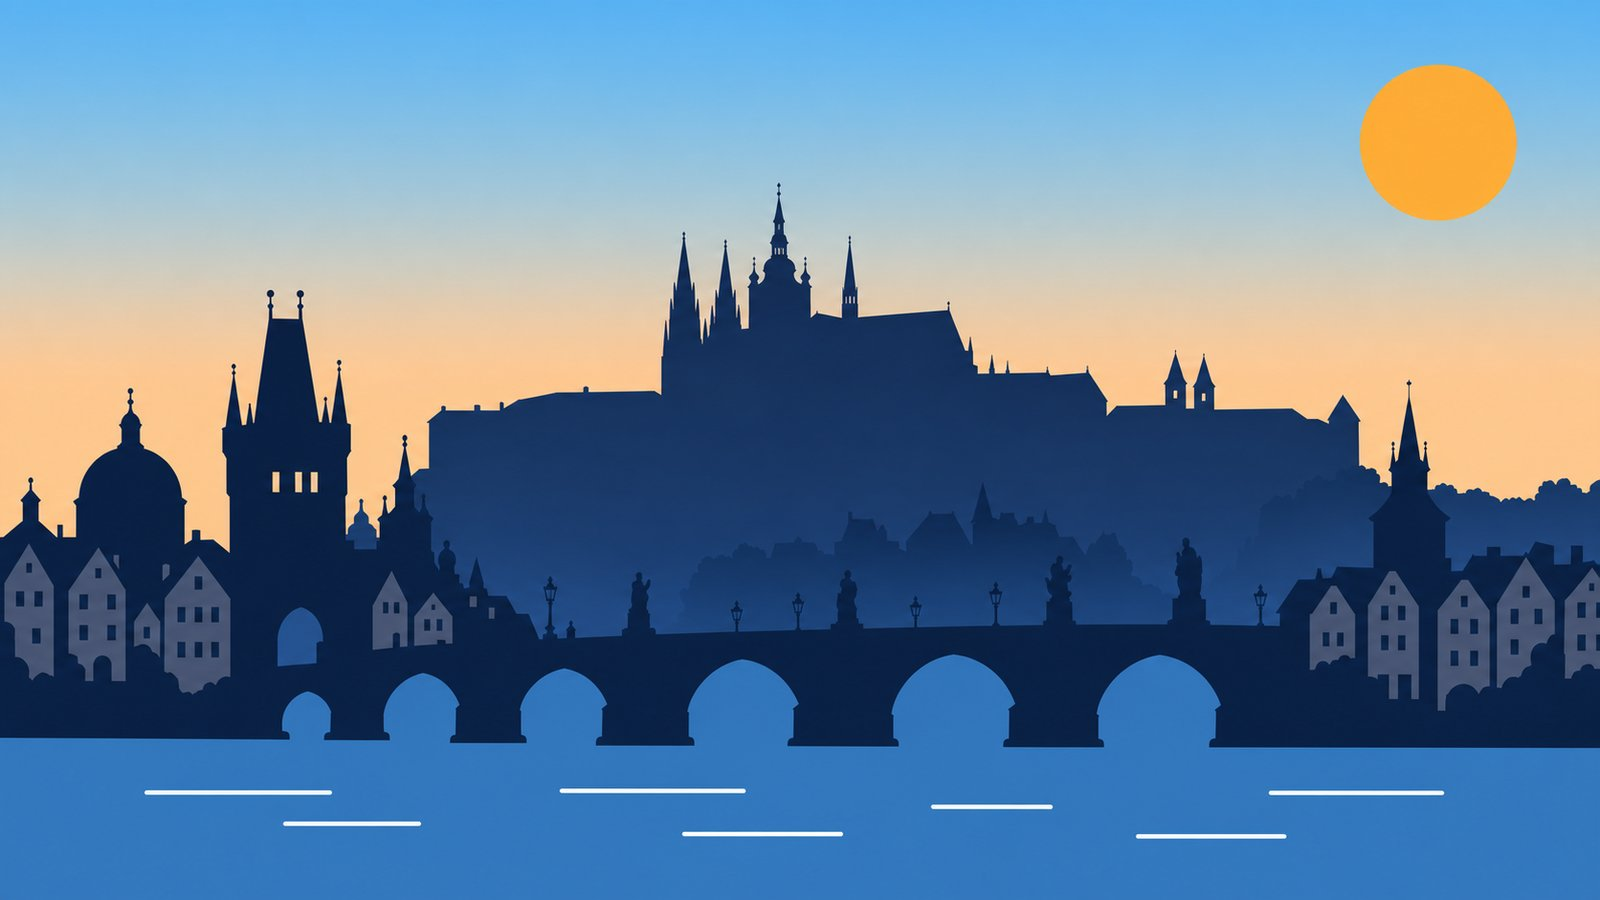
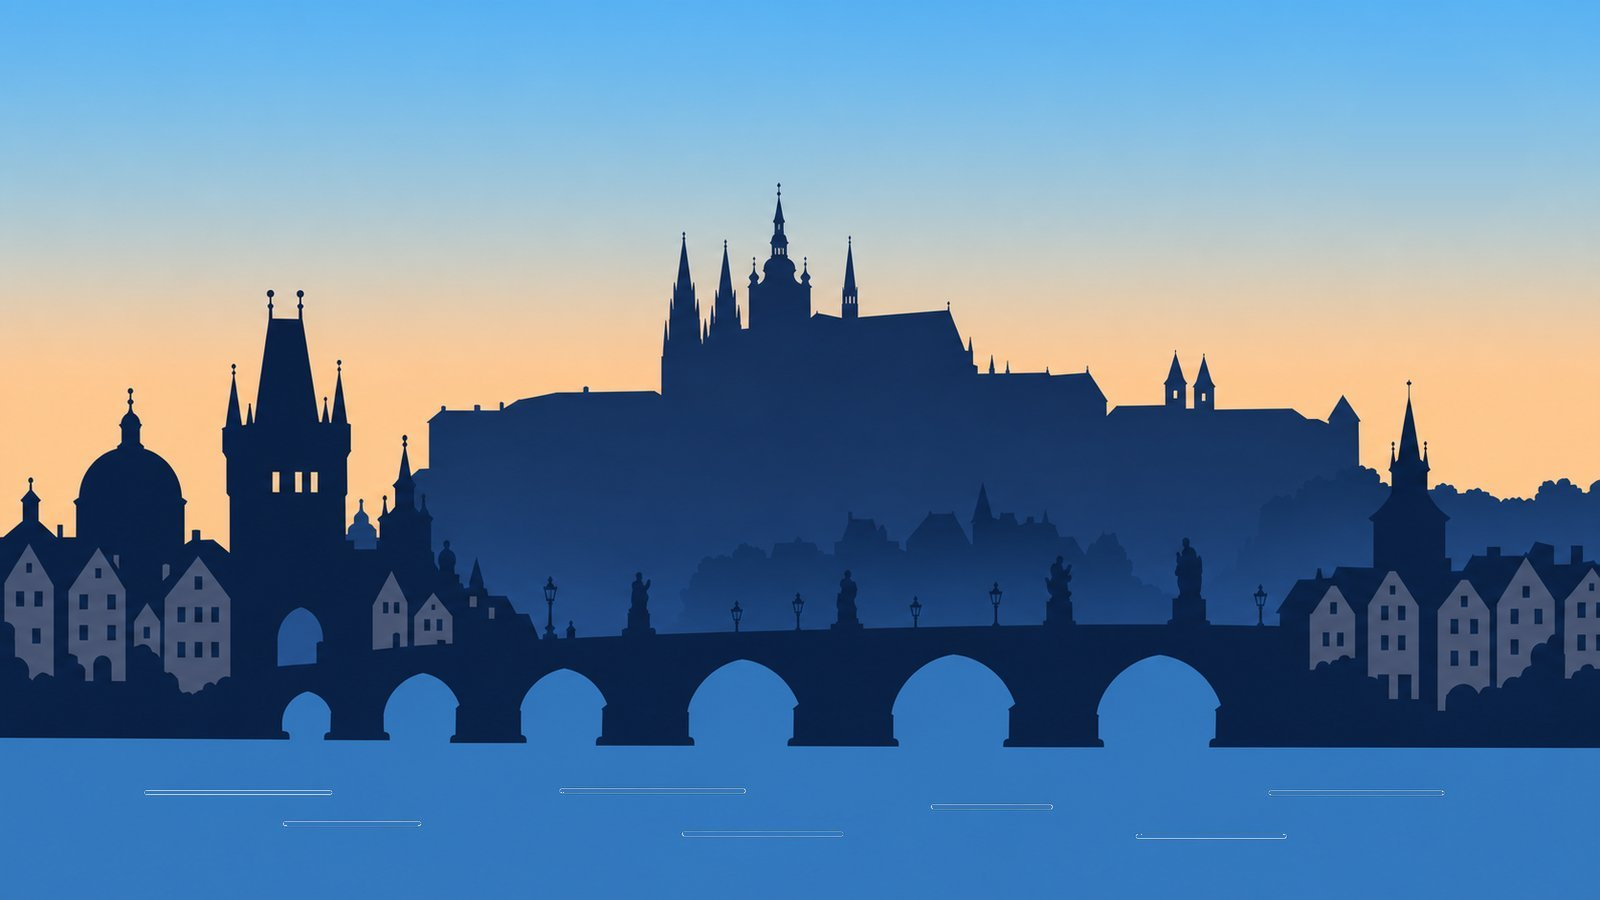
Prague: single-image with day/night tint (same as London)
- Add prague to _MN_SINGLE_IMAGE so it uses only prague.jpg + procedural sun/moon/window flicker instead of swapping to prague_night.jpg
- Erase baked-in static sun from prague.jpg + clean white water foam streaks
- Add _MN_HORIZON_FRAC map (london 0.66 / prague 0.83) so sun/moon arc lands at the correct waterline for each city
- Make sun/moon arc + silhouette mask + water shimmer + window flicker generic across single-image cities
- Keep Tower Bridge traffic and Thames ferries gated to London only

diff --git a/game/index.html b/game/index.html
@@ -9985,7 +9985,15 @@ function _mnDrawSkylinePlaceholder(ctx, W, H, baseY, season, night) {
 // having two distinct day/night JPEGs with different compositions produces
 // ghosting (two skylines visible at once during transition) since each image
 // has its own building/sun/moon positions. Single-image cities sidestep this.
-const _MN_SINGLE_IMAGE = { london: true };
+const _MN_SINGLE_IMAGE = { london: true, prague: true };
+
+// Per-city horizon/water-line as a fraction of canvas height. Used by the
+// procedural sun/moon arc so celestial bodies rise from / set into the right
+// place (the water surface, not the middle of the sky). Defaults to 0.66.
+const _MN_HORIZON_FRAC = {
+  london: 0.66,
+  prague: 0.83,
+};
 
 // Returns true if it drew the image, false if the image is not ready yet.
 function _mnDrawSkylineImage(ctx, W, H, baseY, id, dayMix, night, season) {
@@ -10126,7 +10134,10 @@ function _mnSeasonTint(season, night) {
 // drifting on the Thames, animated traffic dots on Tower Bridge, and gentle
 // window-light flicker at night. Generic for other cities = no-op.
 function _mnDrawLondonAnimation(ctx, W, H, baseY, id, night, tnow) {
-  if (id !== 'london') return;
+  // Animation runs for any single-image city. London-specific extras
+  // (Tower Bridge traffic, Thames ferries) are gated below.
+  if (!_MN_SINGLE_IMAGE[id]) return;
+  const horizonFrac = _MN_HORIZON_FRAC[id] || 0.66;
 
   // ── Animated SUN ↔ MOON arc ─────────────────────────────────────────────────
   // London uses a single base JPEG — it cannot show a moving sun/moon on its
@@ -10145,7 +10156,7 @@ function _mnDrawLondonAnimation(ctx, W, H, baseY, id, night, tnow) {
       const sx = (t - 0.22) / 0.56;             // 0..1 across sky
       const ax = Math.PI * sx;                  // 0..π (left → right semicircle)
       const cx = W * (0.10 + 0.80 * sx);        // x sweeps L→R
-      const horizon = H * 0.66;                 // river/water line
+      const horizon = H * horizonFrac;          // river/water line
       const peak    = H * 0.18;                 // top of arc
       const cy = horizon - (horizon - peak) * Math.sin(ax);
       // Fade in at rise & out at set so the sun appears to come up through
@@ -10187,7 +10198,7 @@ function _mnDrawLondonAnimation(ctx, W, H, baseY, id, night, tnow) {
                  : -1;
     if (moonT >= 0 && moonT <= 1) {
       const mx = W * (0.10 + 0.80 * moonT);
-      const horizon = H * 0.66;
+      const horizon = H * horizonFrac;
       const peak    = H * 0.14;
       const ax = Math.PI * moonT;
       const my = horizon - (horizon - peak) * Math.sin(ax);
@@ -10233,7 +10244,7 @@ function _mnDrawLondonAnimation(ctx, W, H, baseY, id, night, tnow) {
   }
 
   // ── Water shimmer: a few horizontal highlight streaks that drift slowly ──
-  const waterTop = H * 0.66;
+  const waterTop = H * horizonFrac;
   ctx.save();
   ctx.globalCompositeOperation = 'lighter';
   for (let i = 0; i < 6; i++) {
@@ -10252,6 +10263,8 @@ function _mnDrawLondonAnimation(ctx, W, H, baseY, id, night, tnow) {
   }
   ctx.restore();
 
+  // ── London-only river boats + Tower Bridge traffic (skipped for other cities) ──
+  if (id === 'london') {
   // ── Ferries on the Thames: two boats drifting at different speeds ──
   // Drawn as simple silhouettes so they always read clearly over the water
   // regardless of day/night base image.
@@ -10288,40 +10301,41 @@ function _mnDrawLondonAnimation(ctx, W, H, baseY, id, night, tnow) {
   drawFerry(0,    0.020, 1.00, 0.0);   // slow boat L→R
   drawFerry(0.5,  0.014, 0.78, 0.6);   // smaller boat further out
 
-  // ── Traffic on Tower Bridge: 3 tiny moving headlight dots crossing deck ──
+  }
+
+  // ── Traffic on Tower Bridge (London only) ──
   // The bridge in london.jpg has TWO horizontal spans:
   //   - upper walkway at image-y ≈ 460/900 (≈ H * 0.51 on canvas) — this is
   //     just the suspension cables / pedestrian walkway. NO traffic here.
   //   - lower roadway at image-y ≈ 595/900 (≈ H * 0.66 on canvas) — this is
   //     the actual road deck and where traffic should run.
-  // We previously had cars at H*0.575 which placed them on the cable walkway
-  // — looked silly (cars driving through suspension cables). Moved to the
-  // lower roadway. x-range is the central bridge span between the two towers.
-  const deckY = H * 0.66;
-  const bridgeL = W * 0.40;
-  const bridgeR = W * 0.62;
-  const bridgeSpan = bridgeR - bridgeL;
-  ctx.save();
-  for (let i = 0; i < 3; i++) {
-    // Two lanes — even i = left-to-right, odd i = right-to-left
-    const rightward = i % 2 === 0;
-    const speed = 0.10 + i * 0.04;
-    const phase = i * 0.33;
-    const cycle = (tnow * speed + phase) % 1.15;
-    const t = rightward ? cycle : 1 - cycle;
-    if (t < -0.05 || t > 1.05) continue;
-    const x = bridgeL + t * bridgeSpan;
-    const y = deckY + (rightward ? -2 : 1.5);
-    // Car body
-    ctx.fillStyle = night > 0.4 ? 'rgba(20, 22, 30, 0.95)' : 'rgba(30, 38, 60, 0.9)';
-    ctx.fillRect(x, y - 2.5, 4.5, 2);
-    // Headlight / tail
-    if (night > 0.4) {
-      ctx.fillStyle = rightward ? 'rgba(255, 240, 180, 0.9)' : 'rgba(255, 90, 80, 0.9)';
-      ctx.fillRect(x + (rightward ? 4 : -1), y - 1.8, 1.2, 1);
+  if (id === 'london') {
+    const deckY = H * 0.66;
+    const bridgeL = W * 0.40;
+    const bridgeR = W * 0.62;
+    const bridgeSpan = bridgeR - bridgeL;
+    ctx.save();
+    for (let i = 0; i < 3; i++) {
+      // Two lanes — even i = left-to-right, odd i = right-to-left
+      const rightward = i % 2 === 0;
+      const speed = 0.10 + i * 0.04;
+      const phase = i * 0.33;
+      const cycle = (tnow * speed + phase) % 1.15;
+      const t = rightward ? cycle : 1 - cycle;
+      if (t < -0.05 || t > 1.05) continue;
+      const x = bridgeL + t * bridgeSpan;
+      const y = deckY + (rightward ? -2 : 1.5);
+      // Car body
+      ctx.fillStyle = night > 0.4 ? 'rgba(20, 22, 30, 0.95)' : 'rgba(30, 38, 60, 0.9)';
+      ctx.fillRect(x, y - 2.5, 4.5, 2);
+      // Headlight / tail
+      if (night > 0.4) {
+        ctx.fillStyle = rightward ? 'rgba(255, 240, 180, 0.9)' : 'rgba(255, 90, 80, 0.9)';
+        ctx.fillRect(x + (rightward ? 4 : -1), y - 1.8, 1.2, 1);
+      }
     }
+    ctx.restore();
   }
-  ctx.restore();
 
   // ── Window flicker on the buildings (evening + night) ──
   // Buildings in the JPEG are dark silhouettes. We add bright windows that

diff --git a/index.html b/index.html
@@ -9985,7 +9985,15 @@ function _mnDrawSkylinePlaceholder(ctx, W, H, baseY, season, night) {
 // having two distinct day/night JPEGs with different compositions produces
 // ghosting (two skylines visible at once during transition) since each image
 // has its own building/sun/moon positions. Single-image cities sidestep this.
-const _MN_SINGLE_IMAGE = { london: true };
+const _MN_SINGLE_IMAGE = { london: true, prague: true };
+
+// Per-city horizon/water-line as a fraction of canvas height. Used by the
+// procedural sun/moon arc so celestial bodies rise from / set into the right
+// place (the water surface, not the middle of the sky). Defaults to 0.66.
+const _MN_HORIZON_FRAC = {
+  london: 0.66,
+  prague: 0.83,
+};
 
 // Returns true if it drew the image, false if the image is not ready yet.
 function _mnDrawSkylineImage(ctx, W, H, baseY, id, dayMix, night, season) {
@@ -10126,7 +10134,10 @@ function _mnSeasonTint(season, night) {
 // drifting on the Thames, animated traffic dots on Tower Bridge, and gentle
 // window-light flicker at night. Generic for other cities = no-op.
 function _mnDrawLondonAnimation(ctx, W, H, baseY, id, night, tnow) {
-  if (id !== 'london') return;
+  // Animation runs for any single-image city. London-specific extras
+  // (Tower Bridge traffic, Thames ferries) are gated below.
+  if (!_MN_SINGLE_IMAGE[id]) return;
+  const horizonFrac = _MN_HORIZON_FRAC[id] || 0.66;
 
   // ── Animated SUN ↔ MOON arc ─────────────────────────────────────────────────
   // London uses a single base JPEG — it cannot show a moving sun/moon on its
@@ -10145,7 +10156,7 @@ function _mnDrawLondonAnimation(ctx, W, H, baseY, id, night, tnow) {
       const sx = (t - 0.22) / 0.56;             // 0..1 across sky
       const ax = Math.PI * sx;                  // 0..π (left → right semicircle)
       const cx = W * (0.10 + 0.80 * sx);        // x sweeps L→R
-      const horizon = H * 0.66;                 // river/water line
+      const horizon = H * horizonFrac;          // river/water line
       const peak    = H * 0.18;                 // top of arc
       const cy = horizon - (horizon - peak) * Math.sin(ax);
       // Fade in at rise & out at set so the sun appears to come up through
@@ -10187,7 +10198,7 @@ function _mnDrawLondonAnimation(ctx, W, H, baseY, id, night, tnow) {
                  : -1;
     if (moonT >= 0 && moonT <= 1) {
       const mx = W * (0.10 + 0.80 * moonT);
-      const horizon = H * 0.66;
+      const horizon = H * horizonFrac;
       const peak    = H * 0.14;
       const ax = Math.PI * moonT;
       const my = horizon - (horizon - peak) * Math.sin(ax);
@@ -10233,7 +10244,7 @@ function _mnDrawLondonAnimation(ctx, W, H, baseY, id, night, tnow) {
   }
 
   // ── Water shimmer: a few horizontal highlight streaks that drift slowly ──
-  const waterTop = H * 0.66;
+  const waterTop = H * horizonFrac;
   ctx.save();
   ctx.globalCompositeOperation = 'lighter';
   for (let i = 0; i < 6; i++) {
@@ -10252,6 +10263,8 @@ function _mnDrawLondonAnimation(ctx, W, H, baseY, id, night, tnow) {
   }
   ctx.restore();
 
+  // ── London-only river boats + Tower Bridge traffic (skipped for other cities) ──
+  if (id === 'london') {
   // ── Ferries on the Thames: two boats drifting at different speeds ──
   // Drawn as simple silhouettes so they always read clearly over the water
   // regardless of day/night base image.
@@ -10288,40 +10301,41 @@ function _mnDrawLondonAnimation(ctx, W, H, baseY, id, night, tnow) {
   drawFerry(0,    0.020, 1.00, 0.0);   // slow boat L→R
   drawFerry(0.5,  0.014, 0.78, 0.6);   // smaller boat further out
 
-  // ── Traffic on Tower Bridge: 3 tiny moving headlight dots crossing deck ──
+  }
+
+  // ── Traffic on Tower Bridge (London only) ──
   // The bridge in london.jpg has TWO horizontal spans:
   //   - upper walkway at image-y ≈ 460/900 (≈ H * 0.51 on canvas) — this is
   //     just the suspension cables / pedestrian walkway. NO traffic here.
   //   - lower roadway at image-y ≈ 595/900 (≈ H * 0.66 on canvas) — this is
   //     the actual road deck and where traffic should run.
-  // We previously had cars at H*0.575 which placed them on the cable walkway
-  // — looked silly (cars driving through suspension cables). Moved to the
-  // lower roadway. x-range is the central bridge span between the two towers.
-  const deckY = H * 0.66;
-  const bridgeL = W * 0.40;
-  const bridgeR = W * 0.62;
-  const bridgeSpan = bridgeR - bridgeL;
-  ctx.save();
-  for (let i = 0; i < 3; i++) {
-    // Two lanes — even i = left-to-right, odd i = right-to-left
-    const rightward = i % 2 === 0;
-    const speed = 0.10 + i * 0.04;
-    const phase = i * 0.33;
-    const cycle = (tnow * speed + phase) % 1.15;
-    const t = rightward ? cycle : 1 - cycle;
-    if (t < -0.05 || t > 1.05) continue;
-    const x = bridgeL + t * bridgeSpan;
-    const y = deckY + (rightward ? -2 : 1.5);
-    // Car body
-    ctx.fillStyle = night > 0.4 ? 'rgba(20, 22, 30, 0.95)' : 'rgba(30, 38, 60, 0.9)';
-    ctx.fillRect(x, y - 2.5, 4.5, 2);
-    // Headlight / tail
-    if (night > 0.4) {
-      ctx.fillStyle = rightward ? 'rgba(255, 240, 180, 0.9)' : 'rgba(255, 90, 80, 0.9)';
-      ctx.fillRect(x + (rightward ? 4 : -1), y - 1.8, 1.2, 1);
+  if (id === 'london') {
+    const deckY = H * 0.66;
+    const bridgeL = W * 0.40;
+    const bridgeR = W * 0.62;
+    const bridgeSpan = bridgeR - bridgeL;
+    ctx.save();
+    for (let i = 0; i < 3; i++) {
+      // Two lanes — even i = left-to-right, odd i = right-to-left
+      const rightward = i % 2 === 0;
+      const speed = 0.10 + i * 0.04;
+      const phase = i * 0.33;
+      const cycle = (tnow * speed + phase) % 1.15;
+      const t = rightward ? cycle : 1 - cycle;
+      if (t < -0.05 || t > 1.05) continue;
+      const x = bridgeL + t * bridgeSpan;
+      const y = deckY + (rightward ? -2 : 1.5);
+      // Car body
+      ctx.fillStyle = night > 0.4 ? 'rgba(20, 22, 30, 0.95)' : 'rgba(30, 38, 60, 0.9)';
+      ctx.fillRect(x, y - 2.5, 4.5, 2);
+      // Headlight / tail
+      if (night > 0.4) {
+        ctx.fillStyle = rightward ? 'rgba(255, 240, 180, 0.9)' : 'rgba(255, 90, 80, 0.9)';
+        ctx.fillRect(x + (rightward ? 4 : -1), y - 1.8, 1.2, 1);
+      }
     }
+    ctx.restore();
   }
-  ctx.restore();
 
   // ── Window flicker on the buildings (evening + night) ──
   // Buildings in the JPEG are dark silhouettes. We add bright windows that
